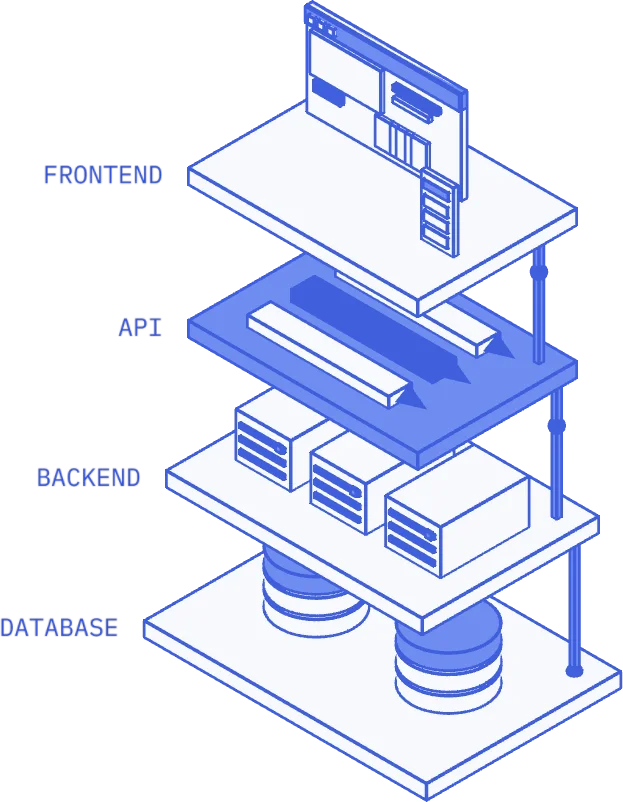
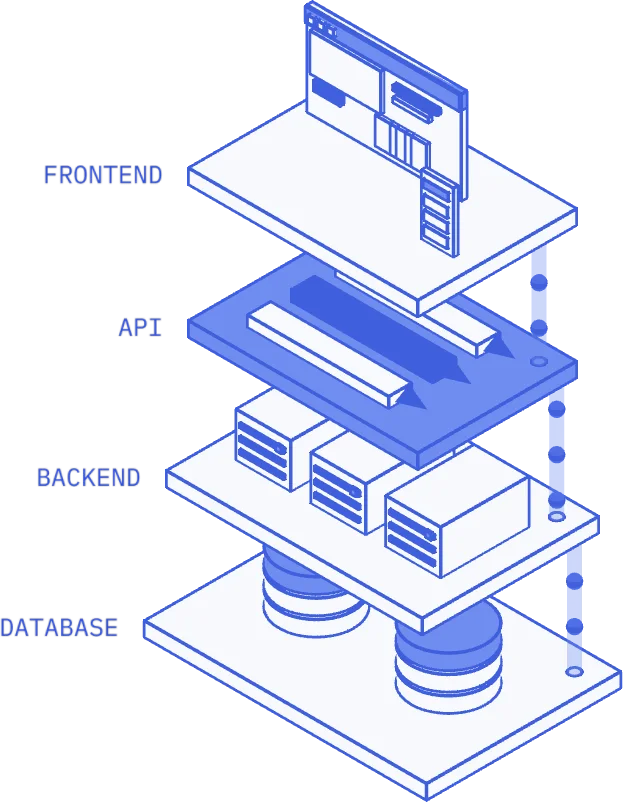
Data packets flow through the pipes as you scroll
Pipes between layers are now translucent tubes, each with three small
packets that drift down on their own and speed up with scrolling. The
hero poster is recaptured from the updated scene.

Changed region(s): [[0.8844, 0.6858, 0.9454, 0.8416], [0.8539, 0.4676, 0.9149, 0.6546], [0.8539, 0.3117, 0.8844, 0.4676]]

diff --git a/components/hero/blueprint-stack.ts b/components/hero/blueprint-stack.ts
@@ -6,6 +6,7 @@ import { LineMaterial } from "three/addons/lines/LineMaterial.js";
 export type StackScene = {
   setPointer: (x: number, y: number) => void;
   setProgress: (p: number) => void;
+  setFlow: (y: number) => void;
   resize: () => void;
   start: () => void;
   stop: () => void;
@@ -162,15 +163,25 @@ export function createStackScene(
     const [w, d] = LAYERS[i];
     const x = w * 0.42;
     const z = -d * 0.38;
-    const pillar = box(0.05, 1, 0.05, accent, x, 0, z);
-    const packet = new THREE.Mesh(new THREE.SphereGeometry(0.075, 16, 12), ink);
-    packet.position.set(x, 0, z);
-    disposables.push(packet.geometry);
-    root.add(pillar, packet);
-    return { pillar, packet, phase: i * 0.33 };
+    const geometry = new THREE.CylinderGeometry(0.06, 0.06, 1, 16, 1, true);
+    const pillar = new THREE.Mesh(geometry, new THREE.MeshBasicMaterial({ color: ACCENT, transparent: true, opacity: 0.35 }));
+    pillar.position.set(x, 0, z);
+    outline(geometry, pillar, 30);
+    disposables.push(pillar.material as THREE.Material);
+    const packets = [0, 1, 2].map(() => {
+      const packet = new THREE.Mesh(new THREE.SphereGeometry(0.07, 16, 12), ink);
+      packet.position.set(x, 0, z);
+      disposables.push(packet.geometry);
+      root.add(packet);
+      return packet;
+    });
+    root.add(pillar);
+    return { pillar, packets, phase: i * 0.21 };
   });
 
   let progress = 0;
+  let flow = 0;
+  let flowTarget = 0;
   let targetX = 0;
   let targetY = 0;
   let rotX = 0;
@@ -187,14 +198,16 @@ export function createStackScene(
     layers.forEach((layer, i) => {
       layer.position.y = i * gap - 1.5 * gap;
     });
-    links.forEach(({ pillar, packet, phase }, i) => {
+      flow += (flowTarget - flow) * 0.08;
+    links.forEach(({ pillar, packets, phase }, i) => {
       const bottom = layers[i].position.y + 0.08;
       const length = Math.max(0.01, gap - 0.16);
       pillar.position.y = bottom + length / 2;
       pillar.scale.y = length;
-      const f = (t * 0.45 + phase) % 1;
-      const up = i % 2 === 0;
-      packet.position.y = bottom + (up ? f : 1 - f) * length;
+      packets.forEach((packet, k) => {
+        const f = (((t * 0.18 + flow + phase + k / 3) % 1) + 1) % 1;
+        packet.position.y = bottom + (1 - f) * length;
+      });
     });
     const drift = options.auto ? Math.sin(t * 0.45) * 0.35 : 0;
     root.rotation.y = rotY + drift + p * 0.45;
@@ -237,6 +250,9 @@ export function createStackScene(
     },
     setProgress(p) {
       progress = clamp(p);
+    },
+    setFlow(y) {
+      flowTarget = y / 700;
     },
     resize,
     start() {

diff --git a/components/hero/hero-3d.tsx b/components/hero/hero-3d.tsx
@@ -30,6 +30,7 @@ export function Hero3D({ labels }: { labels: string[] }) {
           const onScroll = () => {
             const r = figure.getBoundingClientRect();
             const vh = window.innerHeight;
+            scene.setFlow(window.scrollY);
             scene.setProgress(wide ? -r.top / (r.height * 0.9) : (vh * 0.85 - r.top - r.height) / (vh * 0.6));
           };
           const io = new IntersectionObserver(([entry]) => (entry.isIntersecting ? scene.start() : scene.stop()));
